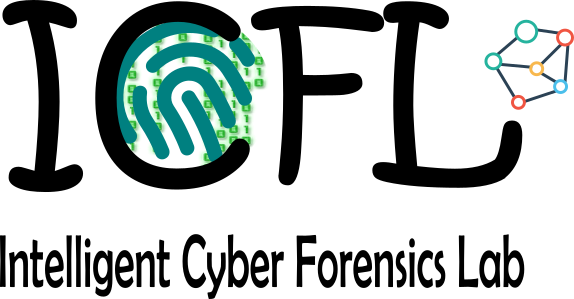
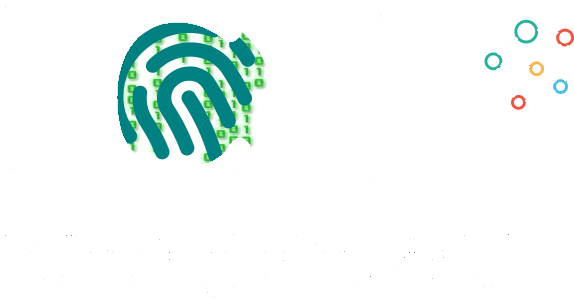
Refresh completed

diff --git a/index.html b/index.html
@@ -752,7 +752,7 @@
                     <section class="feature left">
                         <a href="https://digifors.cs.up.ac.za" class="image icon  fa-briefcase"><img src="images/pic02.jpg" alt="" /></a>
                         <div class="content">
-                            <a target="_blank" href="https://digifors.cs.up.ac.za"><h3>DigiForS <img src="images/digifors_bin.png" alt="" height="50"></h3></a><br/>
+                            <a target="_blank" href="https://digifors.cs.up.ac.za"><h3><img src="images/digifors.png" alt="" height="50"></h3></a><br/>
                             <p> Digital Forensic Science (DigiForS) - design and creator of the research groups website.</p>
                         </div>
                     </section>
@@ -760,7 +760,7 @@
                     <section class="feature right">
                         <a href="https://icfl.cs.up.ac.za" class="image icon  fa-chain-broken"><img src="images/pic02.jpg" alt="" /></a>
                         <div class="content">
-                            <a target="_blank" href="https://icfl.cs.up.ac.za"><h3>ICFL <img src="images/ICFL-white-text.png" alt="" height="50"></h3></a><br/>
+                            <a target="_blank" href="https://icfl.cs.up.ac.za"><h3><img src="images/ICFL-white-text.png" alt="" height="50"></h3></a><br/>
                             <p> Intelligent Cyber Forensics Lab - website design and head of the lab.</p>
                         </div>
                     </section>
@@ -768,8 +768,23 @@
                     <section class="feature left">
                         <a href="https://malfe.cs.up.ac.za" class="image icon  fa-microchip"><img src="images/pic02.jpg" alt="" /></a>
                         <div class="content">
-                            <a target="_blank" href="https://malfe.cs.up.ac.za"><h3>MalFe <img src="images/malfe.png" alt="" height="100">(<i class="red text-center">*</i>)</h3></a><br/>
+                            <a target="_blank" href="https://malfe.cs.up.ac.za"><h3><img src="images/malfe.png" alt="" width="200">(<i class="red text-center">*</i>)</h3></a><br/>
                             <p> MalFe - Malware Feature Engineering Platform.</p>
+                        </div>
+                    </section>
+
+                    <section class="feature right">
+                        <a href="https://github.com/ICFL-UP/RanML" class="image icon  fa-line-chart"><img src="images/pic02.jpg" alt="" /></a>
+                        <div class="content">
+                            <a target="_blank" href="https://github.com/ICFL-UP/RanML"><h3><img src="images/ranml.png" alt="" >(<i class="red text-center">*</i>)</h3></a><br/>
+                            <p> RanML - Ransomware Machine Learning.</p>
+                        </div>
+                    </section>
+                     <section class="feature left">
+                        <a href="https://github.com/ICFL-UP/RanForRed" class="image icon  fa-shield"><img src="images/pic02.jpg" alt="" /></a>
+                        <div class="content">
+                            <a target="_blank" href="https://github.com/ICFL-UP/RanForRed"><h3><img src="images/ranforred.png" alt="" >(<i class="red text-center">*</i>)</h3></a><br/>
+                            <p> RanForRed - Ransomware Forensic Readiness Framework.</p>
                         </div>
                     </section>
 
@@ -940,6 +955,11 @@
                             <p>2025</p>
                             <a class="technical-report-link" href="https://iol.co.za/news/education/2025-06-26-ransomware-threats-how-ai-can-help-combat-cybercrime" target="_blank" rel="noopener noreferrer">Read full report <i class="fa fa-arrow-right" aria-hidden="true"></i></a>
                         </article>
+                        <article class="technical-report-card">
+                            <h3>South Africa Seeks Help After Cyberattack Targets Air Traffic Control</h3>
+                            <p>2026</p>
+                            <a class="technical-report-link" href="https://www.darkreading.com/cyberattacks-data-breaches/south-africa-help-cyberattack-air-traffic-control" target="_blank" rel="noopener noreferrer">Read full report <i class="fa fa-arrow-right" aria-hidden="true"></i></a>
+                        </article>
                     </section>
                 </div>
 
@@ -993,6 +1013,12 @@
                             <a target="_blank" href="https://www.academic-conferences.org/conferences/eccws/"><h4>ECCWS</h4></a>
                             <a target="_blank" href="https://www.academic-conferences.org/conferences/eccws/"><p><i class="icon fa-file-pdf-o"></i> Presented: 2026</p></a>
                             <a target="_blank" href="https://www.academic-conferences.org/conferences/eccws/"><img src="images/acpi.png" height="115" alt="" /></a>
+                        </div>
+
+                        <div class="conference-card">
+                            <a target="_blank" href="https://bsidesjoburg.co.za/"><h4>BSides JHB</h4></a>
+                            <a target="_blank" href="https://bsidesjoburg.co.za/"><p><i class="icon fa-group"></i> Attended: 2024 - 2026</p></a>
+                            <a target="_blank" href="https://bsidesjoburg.co.za/"><img src="images/bsides.png" height="115" alt="" /></a>
                         </div>
 
 
@@ -1111,65 +1137,65 @@
 
             </script>
             <script>
-                 (async function loadOrcidPublicWorks() {
-                     var status = document.getElementById('orcid-card-status');
-                     var endpoint = 'https://pub.orcid.org/v3.0/0000-0003-3024-4076/record';
+                (async function loadOrcidPublicWorks() {
+                    var status = document.getElementById('orcid-card-status');
+                    var endpoint = 'https://pub.orcid.org/v3.0/0000-0003-3024-4076/record';
 
-                     try {
-                         var response = await fetch(endpoint, {
-                             headers: { Accept: 'application/vnd.orcid+json' }
-                         });
+                    try {
+                        var response = await fetch(endpoint, {
+                            headers: { Accept: 'application/vnd.orcid+json' }
+                        });
 
-                         if (!response.ok) {
-                             throw new Error('ORCID API returned HTTP ' + response.status);
-                         }
+                        if (!response.ok) {
+                            throw new Error('ORCID API returned HTTP ' + response.status);
+                        }
 
-                         var record = await response.json();
-                         var activities = record && record['activities-summary'];
-                         var works = activities && activities.works && activities.works.group;
+                        var record = await response.json();
+                        var activities = record && record['activities-summary'];
+                        var works = activities && activities.works && activities.works.group;
 
-                         if (!Array.isArray(works)) {
-                             throw new Error('ORCID record did not include a public works list');
-                         }
+                        if (!Array.isArray(works)) {
+                            throw new Error('ORCID record did not include a public works list');
+                        }
 
-                         var summaries = works.map(function (group) {
-                             var groupSummaries = group['work-summary'];
-                             return Array.isArray(groupSummaries) ? groupSummaries[0] : null;
-                         }).filter(Boolean);
-                         var workTypes = summaries.reduce(function (counts, work) {
-                             var type = work.type || 'other';
-                             counts[type] = (counts[type] || 0) + 1;
-                             return counts;
-                         }, {});
-                         var years = summaries.map(function (work) {
-                             var year = work['publication-date'] &&
-                                 work['publication-date'].year &&
-                                 work['publication-date'].year.value;
-                             return /^\d{4}$/.test(year || '') ? Number(year) : null;
-                         }).filter(Boolean);
-                         var peerReviews = activities['peer-reviews'] &&
-                             activities['peer-reviews'].group;
-                         var publicationYears = years.length
-                             ? Math.min.apply(null, years) + '–' + Math.max.apply(null, years)
-                             : 'Not listed';
+                        var summaries = works.map(function (group) {
+                            var groupSummaries = group['work-summary'];
+                            return Array.isArray(groupSummaries) ? groupSummaries[0] : null;
+                        }).filter(Boolean);
+                        var workTypes = summaries.reduce(function (counts, work) {
+                            var type = work.type || 'other';
+                            counts[type] = (counts[type] || 0) + 1;
+                            return counts;
+                        }, {});
+                        var years = summaries.map(function (work) {
+                            var year = work['publication-date'] &&
+                                work['publication-date'].year &&
+                                work['publication-date'].year.value;
+                            return /^\d{4}$/.test(year || '') ? Number(year) : null;
+                        }).filter(Boolean);
+                        var peerReviews = activities['peer-reviews'] &&
+                            activities['peer-reviews'].group;
+                        var publicationYears = years.length
+                            ? Math.min.apply(null, years) + '–' + Math.max.apply(null, years)
+                            : 'Not listed';
 
-                         document.getElementById('orcid-works-count').textContent = works.length.toLocaleString();
-                         document.getElementById('orcid-journal-count').textContent = (workTypes['journal-article'] || 0).toLocaleString();
-                         document.getElementById('orcid-conference-count').textContent = (workTypes['conference-paper'] || 0).toLocaleString();
-                         document.getElementById('orcid-reviews-count').textContent = Array.isArray(peerReviews)
-                             ? peerReviews.length.toLocaleString()
-                             : 'Not listed';
-                        
-                         status.textContent = '';
-                     } catch (error) {
-                         console.error('Unable to load public ORCID works:', error);
-                         ['orcid-works-count', 'orcid-journal-count', 'orcid-conference-count', 'orcid-reviews-count']
-                             .forEach(function (id) {
-                                 document.getElementById(id).textContent = 'Unavailable';
-                             });
-                         status.textContent = 'Could not load live data. View the public ORCID profile for details.';
-                     }
-                 })();
+                        document.getElementById('orcid-works-count').textContent = works.length.toLocaleString();
+                        document.getElementById('orcid-journal-count').textContent = (workTypes['journal-article'] || 0).toLocaleString();
+                        document.getElementById('orcid-conference-count').textContent = (workTypes['conference-paper'] || 0).toLocaleString();
+                        document.getElementById('orcid-reviews-count').textContent = Array.isArray(peerReviews)
+                            ? peerReviews.length.toLocaleString()
+                            : 'Not listed';
+                    
+                        status.textContent = '';
+                    } catch (error) {
+                        console.error('Unable to load public ORCID works:', error);
+                        ['orcid-works-count', 'orcid-journal-count', 'orcid-conference-count', 'orcid-reviews-count']
+                            .forEach(function (id) {
+                                document.getElementById(id).textContent = 'Unavailable';
+                            });
+                        status.textContent = 'Could not load live data. View the public ORCID profile for details.';
+                    }
+                })();
             </script>
 
 	</body>
